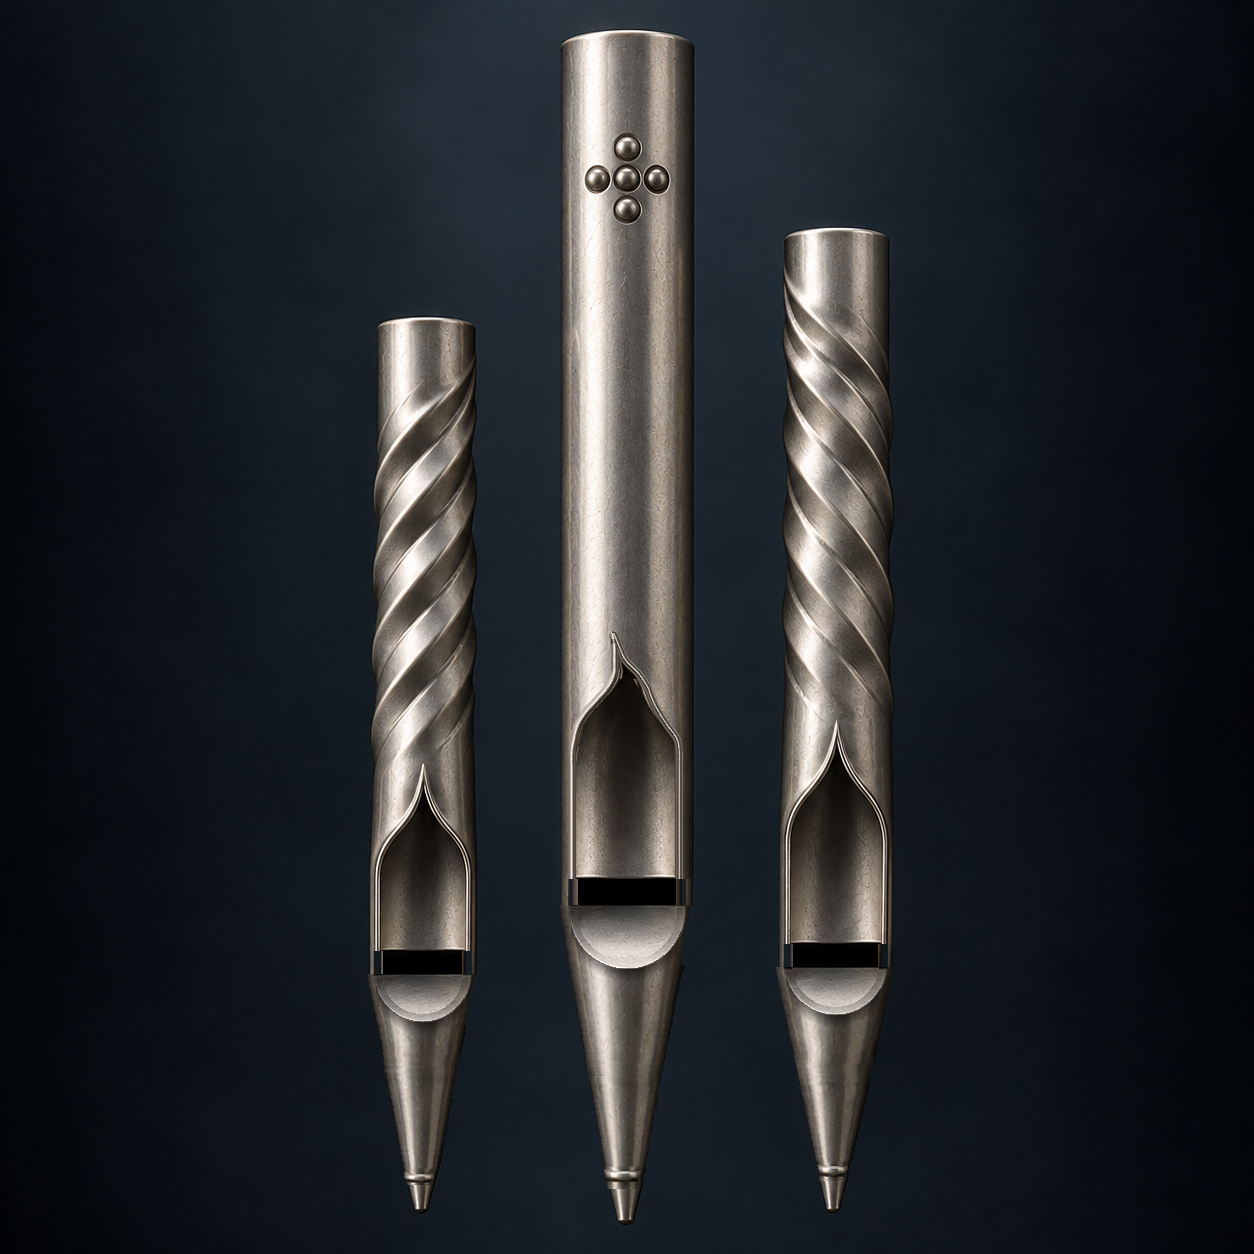
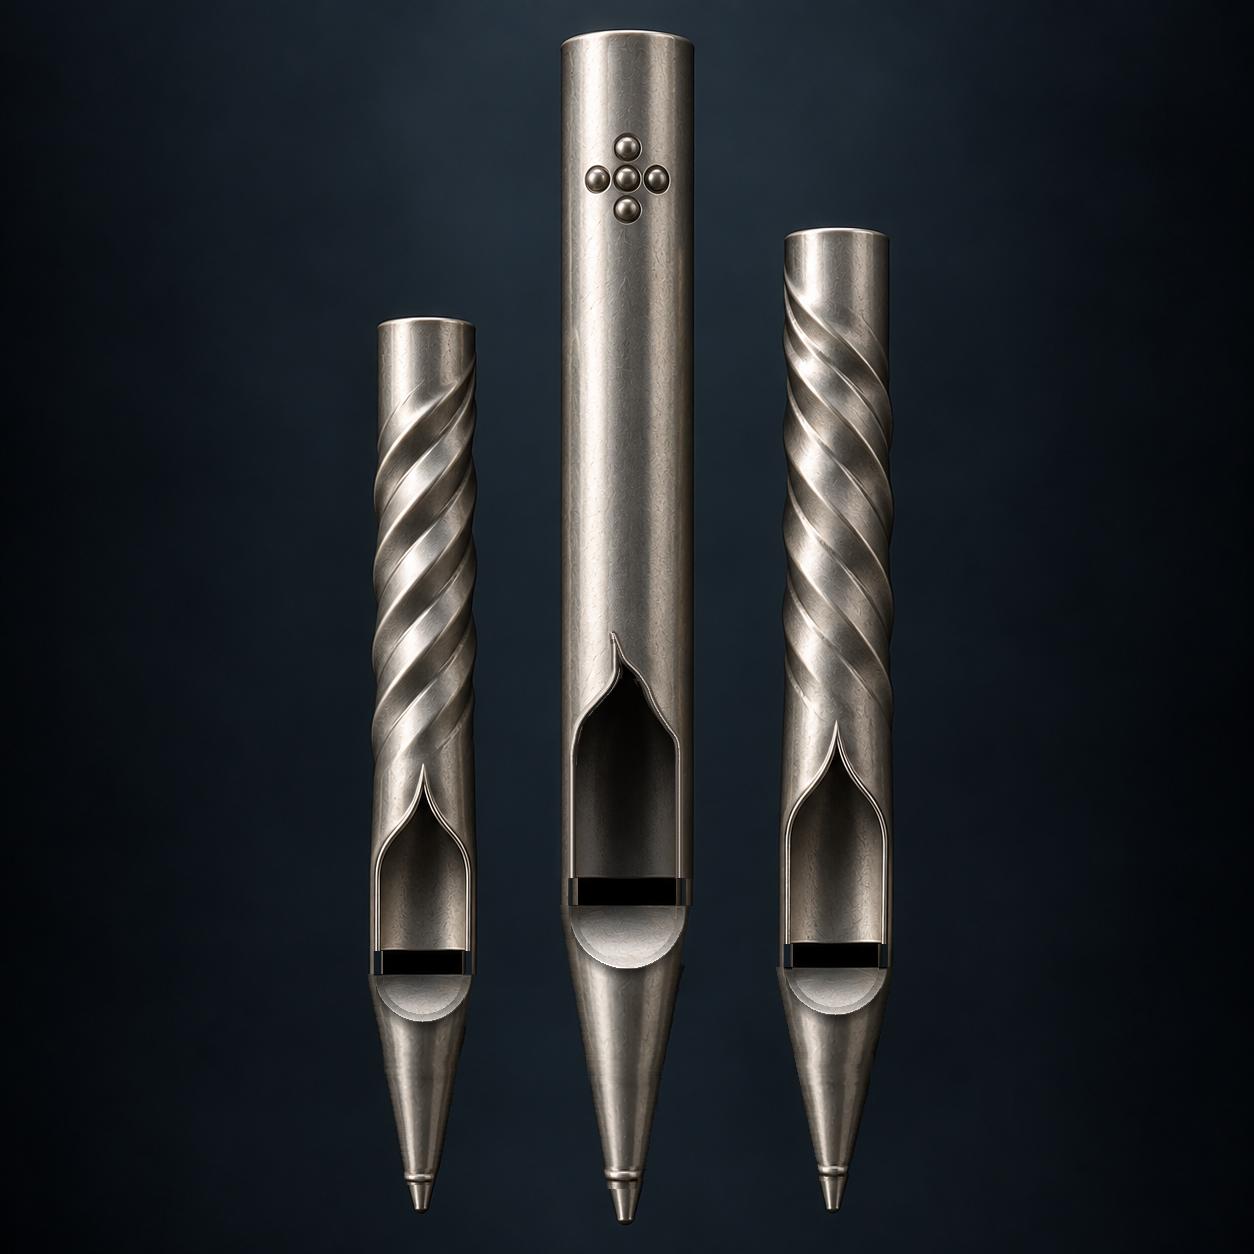
0.8.71: pictures - the inside of the mouth dark throughout, no reflections

Changed region(s): [[0.4354, 0.5287, 0.5598, 0.7153]]

diff --git a/site/index.html b/site/index.html
@@ -25,7 +25,7 @@
         <p class="intro">OrganSampler plays sampled pipe organs from plain folders of WAV files - one folder per stop, one recording per pipe - and turns any number of such folders into an organ of your own design.</p>
         <p>No organ definition file, no installer, no account. Load the folders, let the program propose the organ, shape it - divisions, stops, perspectives, audio routes, voicing - and save it as a configuration. Free software under the GNU GPL v3 for Windows, macOS and Linux.</p>
         <div class="actions"><a class="button primary" href="#download">Download <span aria-hidden="true">&darr;</span></a><a class="button secondary" href="#explore">What is inside</a></div>
-        <p class="availability"><span class="status-dot" aria-hidden="true"></span> Version <span data-version>0.8.70</span> &middot; Windows x64 &middot; macOS &middot; Linux x64 &middot; one portable executable</p>
+        <p class="availability"><span class="status-dot" aria-hidden="true"></span> Version <span data-version>0.8.71</span> &middot; Windows x64 &middot; macOS &middot; Linux x64 &middot; one portable executable</p>
       </div>
       <div class="hero-art">
         <img id="hero-pipes" src="assets/pipes.png" width="1250" height="1250" alt="Three metal organ pipes on a dark background" loading="eager">
@@ -87,7 +87,7 @@
           <a class="button primary" href="https://github.com/zurek-jiri/OrganSampler/releases" data-repo-suffix="/releases">Releases &amp; changelog &rarr;</a>
           <a class="text-link" href="https://github.com/zurek-jiri/OrganSampler/blob/main/OrganSampler/USER_MANUAL.md" data-repo-path="OrganSampler/USER_MANUAL.md">Read the user manual &#8599;</a>
           <a class="text-link" href="https://github.com/zurek-jiri/OrganSampler#building" data-repo-suffix="#building">Build from source &#8599;</a>
-          <p class="small">Version <span data-version>0.8.70</span>. Source, issues and configurations on <a href="https://github.com/zurek-jiri/OrganSampler" data-repo-suffix="">GitHub</a>.</p>
+          <p class="small">Version <span data-version>0.8.71</span>. Source, issues and configurations on <a href="https://github.com/zurek-jiri/OrganSampler" data-repo-suffix="">GitHub</a>.</p>
         </div>
       </div>
     </section>

diff --git a/OrganSampler/CHANGELOG.md b/OrganSampler/CHANGELOG.md
@@ -12,6 +12,13 @@ The version lives in one place per artefact and must be changed together:
 and the `JUCE_APP_VERSION` defines in `OrganSampler_App.vcxproj`. The window
 title shows the version. Released executables are named `OrganSampler_<version>.exe`.
 
+## [0.8.71] - 2026-10-14
+
+### Changed
+- Pictures: the inside of the mouth cut-out is dark throughout, up to the
+  rim's inner line on both sides and up to the apex - no reflections inside
+  the mouth. All six pictures and the two largest icons.
+
 ## [0.8.70] - 2026-10-14
 
 ### Changed

diff --git a/configurations/rural-organ/README.md b/configurations/rural-organ/README.md
@@ -49,7 +49,7 @@ Rural Organ/
 `Rural Organ.json` in this folder is the same portable configuration as in
 the package: saved with "Portable configuration (to share with others)", so
 it carries the organ only - no MIDI devices, no audio devices, nothing of
-the computer it was made on. Saved with OrganSampler 0.8.70.
+the computer it was made on. Saved with OrganSampler 0.8.71.
 
 - Organ: a Czech village organ, three divisions, recorded dry.
 - Samples: Sonus Paradisi, provided free of charge with OrganSampler to try
